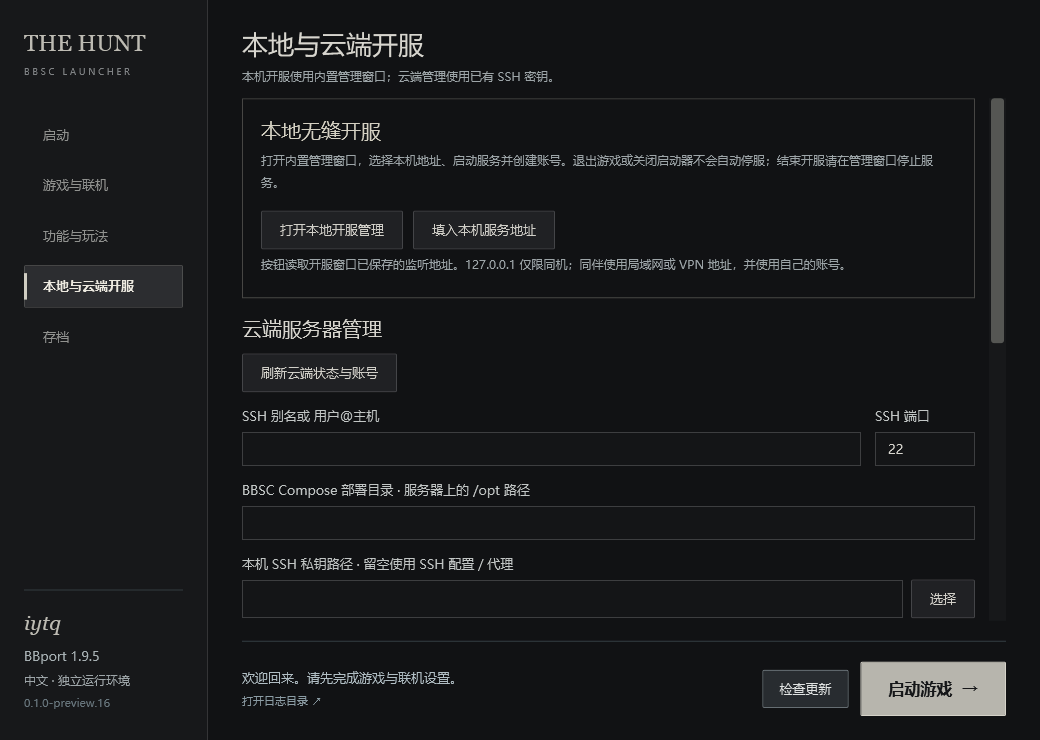
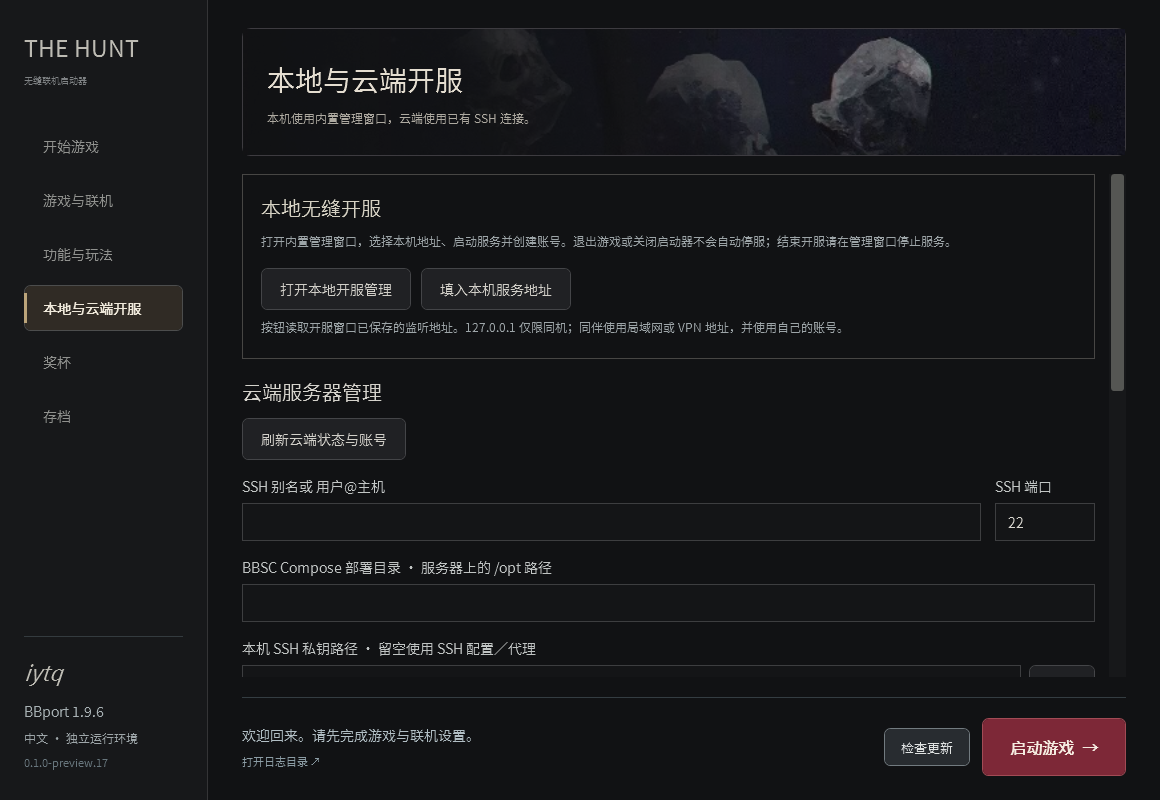
Refresh The Hunt repository overview and validation [skip ci]

diff --git a/README.md b/README.md
@@ -1,104 +1,104 @@
-# The Hunt — 无缝联机与开服
+# The Hunt
 
+**Bloodborne PC 无缝联机启动器与开服工具**
 
-从 preview.16 起，客户端与无缝服务端在本仓库统一维护。完整客户端包内置本地开服管理入口；远程 Windows 开服仍可下载独立服务端包，Linux 使用同版本部署配方。原 TheHuntServer 仓库作为历史只读仓库保留。
+The Hunt 为 BBport 提供中文无缝联机入口，并内置本地开服管理。客户端、独立 Windows 服务端与 Linux 部署配方在本仓库统一维护。
 
-- 玩家：使用 `TheHuntLauncher-<版本>-windows-x64.zip`，在「本地与云端开服」打开内置管理窗口。
-- 专用 Windows 服务端：使用 `TheHuntServer-Windows-v<版本>.zip`，无需安装客户端引擎。
-- Linux 服务端：[部署说明](server/docs/deployment.md)与[配方](server/recipe/)。
-- 本地开服与账号保存：[开服说明](docs/local-server.md)。
-- 当前已通过项目、复用范围及剩余问题：[验收表](docs/validation-current.md)。
-- C# WPF 前台、统一开服窗口与只读奖杯显示：[实现与验证说明](docs/desktop-wpf.md)。首页固定文楷，其余页面及开服窗口固定黑体。
-- 奖杯浮层、页面图片与 PC 菜单汉化：[实现记录](docs/desktop-candidate2.md)。
+[下载预览版](https://github.com/ytq77/TheHuntLauncher/releases/tag/v0.1.0-preview.17) · [快速开始](#快速开始) · [本地开服](docs/local-server.md) · [Linux 部署](server/docs/deployment.md) · [当前验收状态](docs/validation-current.md)
 
-由 **iytq** 维护，适用于 Bloodborne PC 移植版的 BBSC 无缝联机启动器，提供独立运行环境、中文文本、本机配置同步与自动构建。
+![The Hunt preview.17 启动器首页](docs/launcher.png)
 
-A Windows launcher and compatibility layer for BBSC seamless co-op on BBport. This is a community project, independent of the original BBSC, BBport, Sony and FromSoftware projects.
+当前版本为 **0.1.0-preview.17**，基于 **BBport 1.9.6**，仍处于预览阶段。1.9.6 运行和 comp 小窗口奖杯提示已获用户实机确认；历史灯点分支问题仍在调查。版本内容见[发布说明](docs/releases/v0.1.0-preview.17.md)，各项验证范围见[验收表](docs/validation-current.md)。
 
-窗口中的「检查更新」支持版本查询、自动下载校验、程序备份与替换，并保留账号和存档。网络与升级说明见 [自动更新](docs/updates.md)。
+## 功能
 
-![启动界面](docs/launcher.png)
-
-## 当前支持
-
-| 组件 | 固定版本 |
+| 功能 | 说明 |
 |---|---|
-| 游戏 | CUSA03173 1.09，自备游戏文件 |
-| BBport | 1.9.6 |
-| BBSC | 0.0.1_items，包含本仓库兼容补丁 |
-| 系统 | Windows 10 / 11，x64 |
-| 界面与模组文本 | 简体中文 |
+| 无缝联机 | 使用 BBSC 合作、跨区域召唤、提灯同行及对应猎具；在「功能与玩法」配置玩法和难度 |
+| 内置本地开服 | 从启动器打开独立管理窗口，选择监听地址、启停服务和管理联机账号 |
+| 独立与云端开服 | 提供独立 Windows 服务端、Linux 部署配方，以及启动器内的 SSH 云端状态与账号管理入口 |
+| 奖杯记录与提示 | 显示本体及老猎人共 40 项奖杯，启动和退出时刷新实际记录，新解锁可在游戏右上角提示，随游戏窗口同比缩放 |
+| 独立存档 | 无缝进度在独立目录保存，支持带备份的普通版导入与指定布局的离线转换 |
+| 本机配置 | 每次启动读取本机普通版的画质及按键配置，账号使用 Windows DPAPI 加密保存 |
+| 中文 WPF 界面 | 首页固定文楷，其余页面和开服窗口固定黑体，包含中文联机文本与 PC 菜单适配 |
 
-这是 **0.1.0-preview.17 预览版**。整合 C# WPF 前台、只读奖杯页与随窗口缩放的奖杯提示，并固定 BBport 1.9.6。只提供 TheHuntLauncher 名称的完整包，不再发布旧名称的同内容附件或增量兼容包。详见[本版说明](docs/releases/v0.1.0-preview.17.md)与[当前验收表](docs/validation-current.md)。
+奖杯只依据真实解锁记录显示，不根据角色进度推算或补发。人偶洗点在无缝版保持关闭。
 
-1.9.5 WPF 候选的内置开服经 Tailscale 入房已有用户确认；1.9.6 的核心构建、HTTPS 证书校验和兼容检查通过，未将旧版实机反馈扩大为 1.9.6 的游戏内验收。BBSC 奖励与恢复逻辑按未改范围复用既有验收。见[整合记录](docs/desktop-196-candidate.md)。
+## 下载
 
-游戏汉化MOD覆盖新增退出文字的问题已加入[退出文本兼容修正](docs/quit-to-desktop.md)，保留其他译文，并沿用普通版的功能开关。
+请从 [Releases](https://github.com/ytq77/TheHuntLauncher/releases) 下载完整包，解压到新目录，并使用自己的路径、账号和存档。
 
-合作退出与世界记录等待的说明见[世界恢复流程](docs/world-recovery.md)。如果刚退出合作，请关闭游戏窗口后再重启加载；不要手动删除待确认记录。
-
-## 使用
-
-1. 从 [Actions](https://github.com/ytq77/TheHuntLauncher/actions) 下载构建产物，或从 [Releases](https://github.com/ytq77/TheHuntLauncher/releases) 下载预览版。完整解压到新目录。
-2. 双击 **BBSC-Launcher.exe**。无需安装 Python 或修改普通版启动器。新电脑若缺少 VC++ 运行库，先运行包内 `prerequisites/VC_redist.x64.exe`；已有同版或新版可跳过。
-3. 在「游戏与联机」选择本机普通版 `Bloodborne.exe`、游戏 `eboot.bin` 以及普通版的 `bbport.ini`。
-4. 填写服务器管理员提供的四个联机地址与个人账号，保存后点击「启动游戏」。
-5. 「功能与玩法」提供完整中文功能说明、开关与难度数值，支持恢复推荐。保存后下次启动生效，详见[功能与玩法说明](docs/features.md)。
-6. 自建服务管理员可在「服务器管理」通过 SSH 查看状态与账号、新建及验证账号；普通玩家不需要填写，见[管理说明](docs/server/client-admin.md)。
-
-需要先有能正常运行的 BBport 普通版。首次启动会复制本机存档与模组设置，此后无缝版存档保存在本包 `data/user` 中独立发展。普通版画质、帧率及同目录 `input.ini` 在每次启动时重新读取，因此低配置电脑不会继承其他电脑的画质。首次替换已有按键配置前会保留 `data/input.before-settings-sync.ini`；普通版文件不存在时保留无缝版现有按键。
-
-人偶洗点在无缝版继续关闭。需要时可在普通版洗点，先完成全部免费等级的重新分配并正常保存退出，再导入普通版存档；不要导入洗点到一半的角色。导入会整体替换无缝版全部角色进度，详见[洗点说明](docs/rebirth.md)。普通版设置保持不变。FSR 4.1.1 的 Vulkan/DX12 组件、DLSS 桥接及 NVIDIA SR/FG 运行库随包提供；1.9.5 的 FSR 4.1.2 及 ML-FG 4.0.2 还依赖相应 AMD 驱动与系统支持，功能可用性由上游能力检测决定。
-
-本项目不附带游戏本体、游戏字体/资源、存档、账号或私人服务器配置。游戏主体的汉化来自用户自己的游戏安装；BBSC 道具、联机提示由本项目提供中文文本。
-
-已有安装可通过「检查更新」下载、校验并自动替换程序。首次从不带更新模块的旧公开版升级时，仍需退出游戏和启动器，将新版程序覆盖到原目录；保留这台电脑自己的存档、账号和个人配置。单纯重启不会下载更新，详见[客户端升级说明](docs/upgrading.md)。
-
-## 从普通版更新存档
-
-首次启动自动复制普通版存档。之后普通版进度增加时，先正常退出游戏，在「存档」页核对来源和目标，再点击「从普通版导入」。
-
-导入会校验文件，自动将现有无缝存档备份到本包 `save-backups/`，再用普通版存档**整体替换全部角色**，不合并进度。普通版存档保持原样，画质和联机配置不受影响。游戏运行时禁止导入；复制或切换失败会保留或恢复原无缝存档。备份不会自动删除，可从同页打开备份目录。
-
-「无缝版 → 普通版」提供[离线转换](docs/save-conversion.md)：自动备份并处理副本，清理两栏无缝道具引用，原版联机道具只放背包。可直接导出 ZIP，或备份旧原版后替换；全程无需启动游戏。当前仅支持已验证布局与单角色条件。
-
-新建导入、转换任务会备份并合并真实奖杯记录，按编号去重并保留最早解锁时间；导出包携带记录，替换原版时一同合并。缺少记录会提示，不能只凭角色进度补齐历史奖杯，详见[奖杯同步](docs/trophies.md)。
-
-## 联机
-
-需要支持 BBSC 的 **shadNet + BBSC 游戏服务/Relay**。单有普通 shadNet 服务不等于已经具备无缝联机服务。地址字段的意义及配置示例见 [联机配置](docs/network.md)；自行部署、维护与排错见 [Ubuntu / Docker / Tailscale 服务端教程](docs/server/README.md)。
-
-两端使用兼容版本、同一个服务器和不同账号。服务端与路由环境仍由服务器管理员维护；本启动器不会自动修改路由器、防火墙或部署服务器。
-
-| 猎具 | 用途 |
+| 用途 | 下载内容 |
 |---|---|
-| 唤猎之铃 | 召来其他猎人，成为房主 |
-| 应猎之铃 | 加入另一位猎人的世界 |
-| 渴血之铃 | 入侵其他猎人的世界 |
-| 纷争之铃 | 在合作会话中切换玩家间战斗 |
-| 断鸣空弹 | 结束合作 |
+| 玩无缝联机，也可在本机开服 | `TheHuntLauncher-0.1.0-preview.17-windows-x64.zip`，包含 `server/Server.exe` |
+| 专门用一台 Windows 电脑开服 | `TheHuntServer-Windows-v0.1.0-preview.17.zip`，无需安装客户端引擎 |
+| Linux / Docker 开服 | `TheHuntServer-Linux-recipe-v0.1.0-preview.17.zip`，按[部署说明](server/docs/deployment.md)准备环境 |
+| 查看或构建源码 | `TheHuntLauncher-sources.zip`，以及同版独立服务端源码和图形组件源码附件 |
 
-## 本仓库的改动
+发布页附 `SHA256SUMS.txt` 和工具链记录。客户端仅发布 TheHuntLauncher 完整包，正常「检查更新」功能保留。
 
-- The Hunt 图形启动器：旧银色、铃铛蚀刻纹样与 iytq 署名，显示当前配置、启动状态和猎具准备耗时。
-- 深色标题栏、原创铃铛程序图标、清晰的页面选中状态与按需存档导入。
-- 把猎具初始化从读档后的首次游戏循环提前到安装钩子阶段，取消首次 5 秒等待；保留失败重试与未就绪保护。
-- 用安全的内存快照扫描处理页面权限变化，避免扫描时触发宿主的致命异常处理。
-- 排除独立环境下重复加载的内置补丁 XML，保留玩家选择的其他补丁。
-- 每次启动同步本机画质设置，账号通过 Windows DPAPI 按当前用户加密保存。
-- 210 条道具/菜单文本、18 处运行时提示及动态 Boss 提示的简体中文翻译。
+## 快速开始
 
-## 构建与贡献
+### 已有可连接的服务器
 
-见 [构建说明](docs/build.md)、[验证记录](docs/validation.md) 和 [贡献指南](CONTRIBUTING.md)。
+1. 准备能正常运行的 BBport 普通版及自己的游戏文件。
+2. 完整解压客户端，双击 **BBSC-Launcher.exe**。无需单独安装 Python；若电脑缺少 VC++ x64 运行库，可运行包内 `prerequisites/VC_redist.x64.exe`。
+3. 在「游戏与联机」选择普通版 `Bloodborne.exe`、游戏 `eboot.bin` 和普通版 `bbport.ini`。
+4. 填写服务器管理员提供的四项地址和你的联机账号，保存后点击「启动游戏」。
 
-GitHub Actions 在推送、PR 和手动触发时执行测试与 Windows 构建。版本标签 `v*` 生成 GitHub **预发布版**，同时附带二进制、完整应用源码和 SHA256 校验文件。上游源码固定到 `upstream.lock.json` 中的提交，升级需要显式修改并重新验证；MSYS2 工具链版本会记录在产物中，当前不承诺逐字节可重现。
+The Hunt 使用所填服务器上的账号，与普通版 SuperMedo 登录分开。联机双方使用兼容版本、同一服务器和不同账号。四项地址的含义见[联机配置](docs/network.md)。
+
+### 在本机开服
+
+1. 打开「本地与云端开服」→「打开本地开服管理」。
+2. 在管理窗口选择本机的局域网或 VPN IPv4，启动无缝服务，为每位玩家创建不同账号。
+3. 同机游玩可在启动器点击「填入本机服务地址」，再填写账号并保存；同伴使用开服窗口显示的局域网或 VPN 地址。
+
+开服管理窗口独立运行，关闭启动器或退出游戏不会自动停服。结束开服请在管理窗口停止服务或关闭该窗口。地址选择、端口与账号数据位置见[本地开服说明](docs/local-server.md)。
+
+![启动器中的本地与云端开服页面](docs/local-server.png)
+
+专用 Windows 主机见[服务端说明](server/README.md)，Linux 主机使用[部署教程](server/docs/deployment.md)。已有云端服务可通过启动器的 SSH 管理区域查看状态、新建和验证账号，详见[云端管理](docs/server/client-admin.md)。
+
+## 支持范围
+
+| 组件 | 当前范围 |
+|---|---|
+| 游戏文件 | CUSA03173 1.09，需自行提供 |
+| BBport | 固定 1.9.6 |
+| BBSC | 固定 `0.0.1_items`，包含本仓库兼容补丁 |
+| 客户端与图形开服窗口 | Windows 10 / 11，x64 |
+| Linux 服务端 | 使用同版本部署配方，按文档配置 Docker 与网络 |
+| 界面与联机文本 | 简体中文 |
+
+本项目为社区维护项目，由 **iytq** 维护，独立于 BBSC、BBport、Sony 和 FromSoftware。不附带游戏本体、游戏字体或奖杯图片、玩家存档、账号与私人服务器配置。界面字体附带许可，界面图片保留来源记录。
+
+## 存档、奖杯与更新
+
+首次启动会复制本机普通版的存档和模组设置，此后无缝进度在本包 `data/user` 中独立发展。画质和同目录 `input.ini` 每次启动重新读取本机普通版配置。
+
+在「存档」页从普通版导入时，会先备份现有无缝存档，再**整体替换全部角色进度**，不合并世界进度。「无缝版 → 普通版」提供带备份的离线转换，当前仅支持已验证布局和条件。操作前请阅读[导入与转换说明](docs/save-conversion.md)。
+
+导入与转换会备份并合并实际奖杯记录，按编号去重、保留最早解锁时间。原版未记录的历史奖杯不会仅凭存档进度自动点亮，见[奖杯同步](docs/trophies.md)。
+
+「检查更新」支持查询、下载校验、程序备份与替换，并保留账号和存档，见[自动更新](docs/updates.md)。合作结束后的世界恢复说明见[世界恢复流程](docs/world-recovery.md)；保留待确认记录，按提示关闭游戏并完成核对。
+
+## 文档与源码
+
+- [玩法与功能开关](docs/features.md)
+- [本地开服](docs/local-server.md)、[Windows 服务端](server/README.md)、[Linux 部署](server/docs/deployment.md)、[网络配置](docs/network.md)
+- [当前验收表](docs/validation-current.md)、[历史灯点调查](docs/lamp-investigation.md)
+- [C# WPF 与奖杯实现](docs/desktop-wpf.md)、[BBport 1.9.6 适配](docs/upstream-1.9.6-review.md)
+- [源码构建](docs/build.md)、[贡献指南](CONTRIBUTING.md)
+
+`launcher/` 为客户端前台与后端，`server/` 为服务端，`patches/` 为兼容与修复补丁。原 [TheHuntServer](https://github.com/ytq77/TheHuntServer) 仓库只读保留历史，新版本统一在本仓库维护和发布。
+
+GitHub Actions 执行自动检查和构建，`v*` 标签生成预发布版并附带匹配源码和校验文件。上游提交固定在 `upstream.lock.json`；工具链版本记录在发布附件中。
 
 ## 致谢与许可证
 
-- [CLSAMG22 / BBSC](https://github.com/CLSAMG22/BBSC)：无缝联机主体、加载器、服务器及原始道具机制。
-- [Supermedo / bloodborne_pc](https://github.com/Supermedo/bloodborne_pc)：BBport 核心、画面与输入支持。
-- [shadPS4](https://github.com/shadps4-emu/shadPS4) 及上游贡献者。
-- [MSYS2](https://www.msys2.org/) 与各依赖项目。
+- [CLSAMG22 / BBSC](https://github.com/CLSAMG22/BBSC)：无缝联机主体、加载器、服务器与猎具机制。
+- [Supermedo / bloodborne_pc](https://github.com/Supermedo/bloodborne_pc)：BBport 核心、画面和输入支持。
+- [shadPS4](https://github.com/shadps4-emu/shadPS4)、[MSYS2](https://www.msys2.org/) 及各依赖项目的贡献者。
 
-本项目代码使用 GPL-2.0-or-later；第三方代码保留原许可证和署名。详见 [LICENSE](LICENSE) 与 [NOTICE.md](NOTICE.md)。不宣称拥有上游项目或 Bloodborne 游戏资产。
+本项目代码使用 GPL-2.0-or-later；第三方代码和资源保留各自许可证与署名。详见 [LICENSE](LICENSE) 与 [NOTICE.md](NOTICE.md)。

diff --git a/docs/validation-current.md b/docs/validation-current.md
@@ -21,14 +21,15 @@
 | 当前 `server/recipe` Linux 配方 | CI 构建和协议检查通过 | [preview.16 标签构建](https://github.com/ytq77/TheHuntLauncher/actions/runs/40845137780)；尚未据此重新部署私人云服，不扩大为目标主机或全新网络的双人实测；`docs/server/recipe` 旧配方单独保留历史边界 |
 | 两秒轮询 | 已有部署生效证据，当前版未改实现 | 10/28 私人部署记录核验容器参数和实际 ss.info；preview.16 发布没有修改或重建云服务器 |
 | BBport 1.9.5 图形、PC 设置页及新引擎联机运行 | 当前 WPF 测试包已有启动、菜单截图和联机实机反馈 | 用户提供 1.9.5 PC 菜单截图，确认 comp 在旧亚楠联机，后续确认内置开服经 Tailscale 成功入房。构建、依赖、路径及菜单检查已通过；不扩大为全部 GPU、图形参数或网络组合，也不重做未改的奖励矩阵 |
-| BBport 1.9.6 与奖杯比例整合候选 | 核心和原生前台构建、兼容及证书校验通过 | 234 项 Python 检查通过；上游证书测试离线／在线分支均通过，正确证书链返回 200、错误主机名被拒绝。1.9.6 仅改变证书校验相关核心代码和发布说明；既有 1.9.5 联机玩法按未改范围复用，不声称已取得 1.9.6 实机反馈 |
+| BBport 1.9.6（preview.17）实机运行 | 用户确认运行正常 | 2026-10-30，用户在 preview.17 换机定向验收后反馈“1.9.6运行正常”。既有构建、兼容及证书检查继续有效；实机结论限此次 comp 环境及已执行场景 |
+| 奖杯提示随游戏窗口同比缩放（preview.17） | 用户确认小窗口显示正常 | 2026-10-30，用户针对 comp 小窗口验收反馈“小窗口正常”。此前比例修正的自动化结果已有本次实机反馈补充；本项不作为新增奖杯触发或存档恢复的证明 |
 | 历史灯点减少 | 根因未闭合 | [灯点调查](lamp-investigation.md)：存在不同进度分支；后续从 9 灯基线开始的诊断未再次丢灯，不能倒推历史首次回退的来源 |
 | 洗点、五人合作、永久共享进度 | 洗点关闭；其他组合不列为已验收承诺 | 未改开放状态，也不为本轮合仓新增这些功能 |
 
 ## 正式版前的剩余判断
 
 1. 历史灯点问题须有明确的风险处理结论，不能把商店／掉落修复或后续 9 灯诊断通过当作销项依据。
-2. 当前 1.9.5 WPF 候选及内置开服经 Tailscale 入房已有用户确认，不再整体列为未测试。后续引擎升级根据实际差异补充构建、依赖及对应路径检查，复用未改范围内的 Boss、徽章、掉落、转换和退出结果。
+2. preview.17 的 BBport 1.9.6 运行及 comp 小窗口奖杯提示已有用户确认；此前 1.9.5 WPF 候选内置开服经 Tailscale 入房的结果继续按范围复用。这两项不再列为待实机验收，Boss、徽章、掉落、转换和退出等未改路径继续复用原结果。
 3. 目标云主机、其他网络、未支持的存档布局及异常组合继续分别记录；CI 成功不代表私人部署已升级。
 
 提出任何实机复测前，先写清尚未确认的问题、改动到的调用路径、旧结果不能回答的原因及最小观察目标。当前灯点调查优先使用已有资料，不要求玩家重新进游戏。
@@ -50,3 +51,9 @@
 用户明确反馈已通过内置开服、经 Tailscale 成功入房，按现有 1.9.5 WPF 候选路径记为通过。反馈没有单独确认 comp 已应用奖杯比例补丁，因此不据此扩大该显示项的验收范围。
 
 已核对上游 1.9.6 的两个提交、六个文件变更，详见 [差异与适配结论](upstream-1.9.6-review.md)。随后按用户授权构建 1.9.6 核心并整合奖杯比例修正；锁定文件与候选更新，现有已初始化安装和服务器未替换。完整说明见 [1.9.6 整合候选](desktop-196-candidate.md)。
+
+## preview.17 两项定向实机验收（2026-10-30）
+
+用户在 preview.17 发布后的 comp 定向验收中明确反馈：“小窗口正常，1.9.6运行正常”。据此将小窗口奖杯提示比例及 BBport 1.9.6 实际运行记为用户确认通过，覆盖前文对应的待验状态。证据为用户反馈，本轮没有另行启动游戏。
+
+历史灯点调查继续单独推进；这两项通过不作为历史根因已定位的依据。
